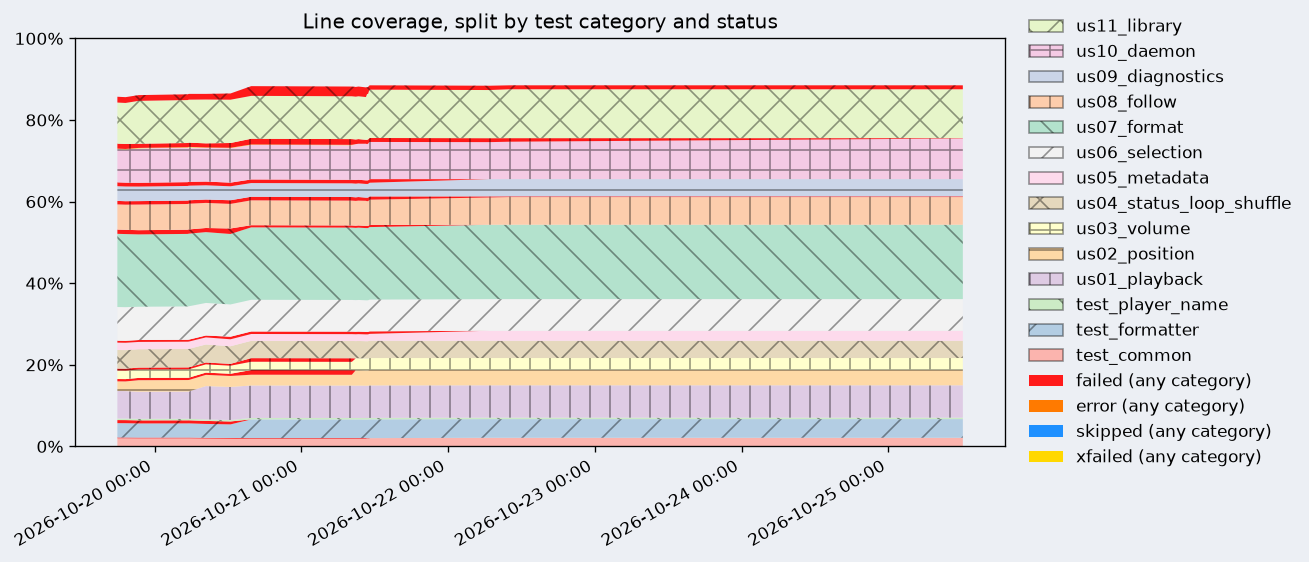
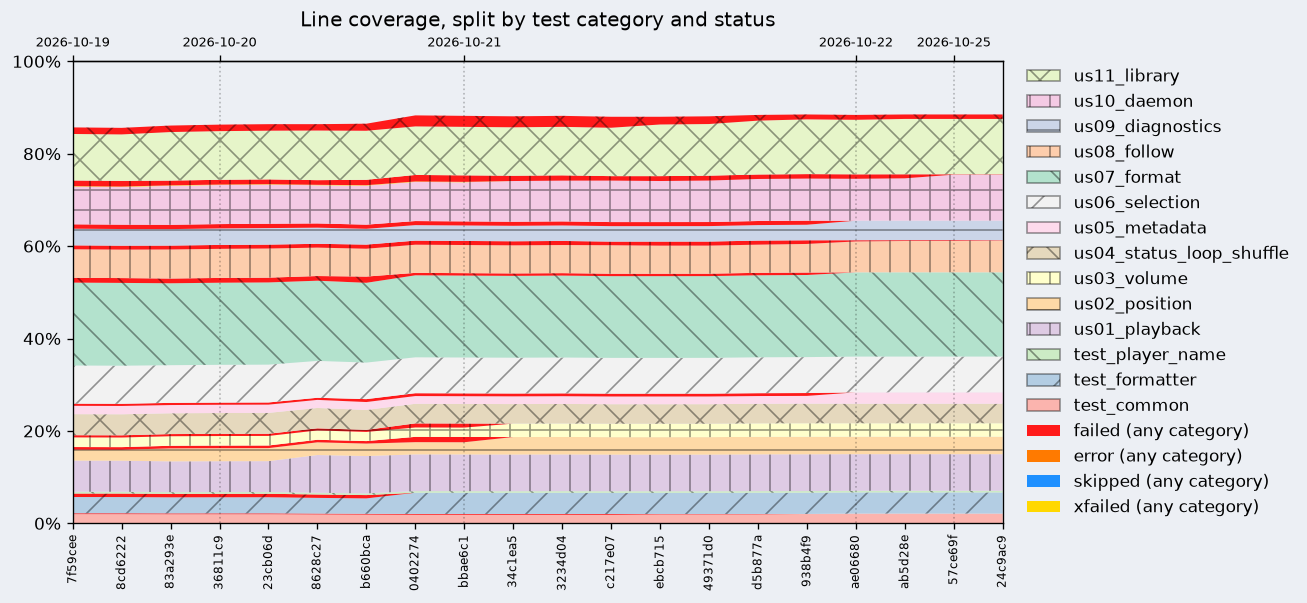
change coverage graph logic to per-commit instead of per-date

diff --git a/scripts/history-chart.py b/scripts/history-chart.py
@@ -3,13 +3,15 @@
 
 Usage: history-chart.py TEST_HISTORY.csv COVERAGE_HISTORY.csv OUT.png|OUT.svg
 
-A stacked area per test category, pattern and colour per category. Inside a
-category the passed tests keep its colour and the others are drawn on top in a
+One position per test run, evenly spaced on the x axis (labelled by the
+run's commit, dates above the plot). A stacked area per test category, pattern
+and colour per category. Inside a category the passed tests keep its colour and the others are drawn on top in a
 fixed colour per status (xfailed, skipped, error, failed). The height of the
 stack at each run is that run's line coverage (0-100%), split between the
 categories and statuses by their share of the tests. That split is a rough
-picture, not a measurement: coverage is not attributable to a category. Runs
-are matched by commit.
+picture, not a measurement: coverage is not attributable to a category. A test
+run is matched with the coverage run of the same commit (the n-th with the
+n-th).
 """
 
 import csv
@@ -20,7 +22,6 @@ from datetime import datetime
 import matplotlib
 
 matplotlib.use('Agg')
-import matplotlib.dates as mdates  # noqa: E402
 import matplotlib.pyplot as plt  # noqa: E402
 from matplotlib.patches import Patch  # noqa: E402
 from matplotlib.ticker import PercentFormatter  # noqa: E402
@@ -41,26 +42,31 @@ STATUSES = {
 
 def main(tests, coverage, output):
     with open(coverage, newline='') as f:
-        line_percent = {
-            r['commit']: float(r['line_percent'])
-            for r in csv.DictReader(f)
-            if r['file'] == 'TOTAL'
-        }
-    times, counts = {}, defaultdict(dict)
+        percents = defaultdict(list)
+        for r in csv.DictReader(f):
+            if r['file'] == 'TOTAL':
+                percents[r['commit']].append(float(r['line_percent']))
+    # one run per (time, commit) in the test history; the n-th run of a commit
+    # is matched with the n-th coverage run of that commit
+    by_run, per_commit = {}, defaultdict(int)
     with open(tests, newline='') as f:
         for r in csv.DictReader(f):
-            commit = r['commit']
-            if commit not in line_percent:
-                continue
-            if r['category'] == 'TOTAL':
-                times[commit] = datetime.fromisoformat(r['time'])
-            else:
-                counts[r['category'], commit] = r
-    commits = list(times)
-    names = sorted({name for name, _ in counts})
+            key = r['time'], r['commit']
+            if key not in by_run:
+                n = per_commit[r['commit']]
+                per_commit[r['commit']] += 1
+                if n >= len(percents[r['commit']]):
+                    continue
+                by_run[key] = {'percent': percents[r['commit']][n]}
+            if key in by_run and r['category'] != 'TOTAL':
+                by_run[key][r['category']] = r
+    runs = list(by_run)
+    names = sorted(
+        {name for run in by_run.values() for name in run} - {'percent'}
+    )
     total = {
-        c: sum(int(counts[n, c]['total']) for n in names if (n, c) in counts)
-        for c in commits
+        k: sum(int(run[n]['total']) for n in names if n in run)
+        for k, run in by_run.items()
     }
 
     palette = plt.get_cmap('Pastel1').colors + plt.get_cmap('Pastel2').colors
@@ -69,12 +75,10 @@ def main(tests, coverage, output):
         for status, color in STATUSES.items():
             stacks.append(
                 [
-                    line_percent[c]
-                    * int(
-                        counts[name, c][status] if (name, c) in counts else 0
-                    )
-                    / total[c]
-                    for c in commits
+                    by_run[k]['percent']
+                    * int(by_run[k][name][status] if name in by_run[k] else 0)
+                    / total[k]
+                    for k in runs
                 ]
             )
             colors.append(color or palette[i % len(palette)])
@@ -82,7 +86,8 @@ def main(tests, coverage, output):
 
     fig, ax = plt.subplots(figsize=(10, 5), facecolor=BACKGROUND)
     ax.set_facecolor(BACKGROUND)
-    areas = ax.stackplot(list(times.values()), stacks, colors=colors)
+    positions = list(range(len(runs)))
+    areas = ax.stackplot(positions, stacks, colors=colors)
     for area, hatch in zip(areas, hatches):
         area.set_hatch(hatch)
         area.set_edgecolor((0, 0, 0, 0.4))
@@ -110,8 +115,19 @@ def main(tests, coverage, output):
         bbox_to_anchor=(1.01, 0.5),
         frameon=False,
     )
-    ax.xaxis.set_major_formatter(mdates.DateFormatter('%Y-%m-%d %H:%M'))
-    fig.autofmt_xdate()
+    ax.set_xlim(0, max(len(runs) - 1, 1))
+    ax.set_xticks(positions, [c for _, c in runs], rotation=90, fontsize=7)
+    first_of_day = {}
+    for i, (time, _) in enumerate(runs):
+        first_of_day.setdefault(datetime.fromisoformat(time).date(), i)
+    dates = ax.secondary_xaxis('top')
+    dates.set_xticks(
+        list(first_of_day.values()),
+        [d.isoformat() for d in first_of_day],
+        fontsize=8,
+    )
+    for i in list(first_of_day.values())[1:]:
+        ax.axvline(i, color='black', alpha=0.25, linestyle=':', linewidth=1)
     fig.savefig(output, dpi=120, bbox_inches='tight')
     print(f'wrote {output}')
 

diff --git a/doc/USER_STORIES.md b/doc/USER_STORIES.md
@@ -177,9 +177,13 @@ Personas: **user** (desktop/hotkeys), **bar author** (polybar/waybar scripts), *
 - **Not testable:** `PlayerManager.manage_player(None)` and manager `set_property` through GI; internal `g_error` invariants and `assert(false)` branches; the fatal `g_error` reading the `metadata` property after a failed Get; startup scan against a player withholding a reply (25 s D-Bus timeout vs the 5 s test limit); a `Get` that never answers in the CLI (same timeout); `get_player_command` error in `player_appeared_callback`.
 
 ## Running the tests
-- `make coverage` runs the suite against a gcov-instrumented build in the container and writes reports to `build/coverage`.
-- `make test-c` builds and runs the C unit tests in `test/c` (GLib `g_test`, internals the CLI cannot reach) with `meson test` in the container.
-- `make test-asan` builds with AddressSanitizer and UBSan in the container and runs the C unit tests plus every pytest suite except `test/us11_library` (the GI tests load libplayerctl into an uninstrumented Python). Reports go to `build/asan`; `test/data/lsan.supp` suppresses GDBus and GLib allocations still live at exit. It finds the leaks and out-of-bounds reads that plain pytest cannot see, and fails until they are fixed.
-- `make test` runs the C unit tests and the whole pytest suite in the container and prints a per-category table (total, passed, failed, error, xfailed, skipped) built from their JUnit XML; XML and `summary.txt` go to `build/test-report`. `make test-asan` and `make coverage` print the same table. `make test-local` builds with meson on the host and runs pytest only.
-- `make pre-commit` (which runs `make coverage RECORD_HISTORY=1` and `make test-asan`) appends one run to `test/test_history.csv` (per category plus TOTAL) and `test/coverage_history.csv` (per source file plus TOTAL, from `gcovr --json-summary`), both kept in git; each is restored from `HEAD` first, so a commit holds one new run; it then redraws `doc/test-history.png` and `doc/test-badge.svg`. `make test-history-chart` charts them in `build/test-history.png` as a stacked area per category whose total height is the line coverage, split by each category's share of the tests; runs are matched by commit. `make test-history-backfill N=8` rewrites both files with the last N first-parent commits, measured one after the other with the current harness in snapshots under `build/backfill`, each row dated by its commit; commit the files so the restore from `HEAD` keeps them.
+
+Run `make help` for all targets. They run in the container.
+
+- `make test`: C unit tests and the whole pytest suite, with a per-category table (XML and `summary.txt` in `build/test-report`).
+- `make test-c`: only the C unit tests in `test/c` (internals the CLI cannot reach).
+- `make test-asan`: AddressSanitizer and UBSan build, C tests plus every pytest suite except `test/us11_library`; reports in `build/asan`. It finds leaks and out-of-bounds reads that plain pytest cannot see.
+- `make coverage`: gcov-instrumented run; reports in `build/coverage`.
+- `make pre-commit`: formatters, linters and the checks above, then records the run in `test/test_history.csv` and `test/coverage_history.csv` and redraws `doc/test-history.png` and `doc/test-badge.svg`. Commit those files too.
+- `make test-history-chart`: draws the history as a stacked area per category, one position per test run, in `build/test-history.png`.
 - The library stories (`test/us11_library`) need PyGObject (`uv sync --group gi`) and skip without it.
